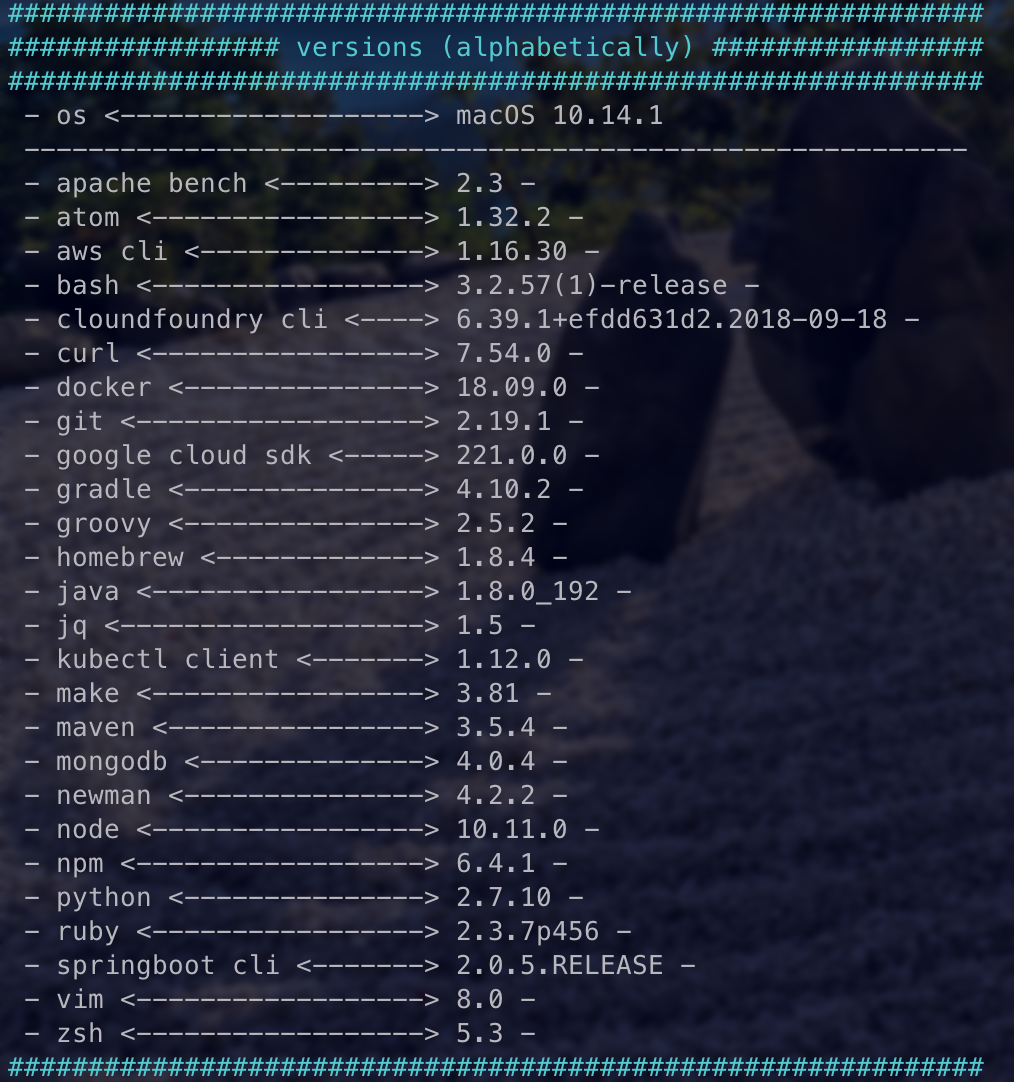
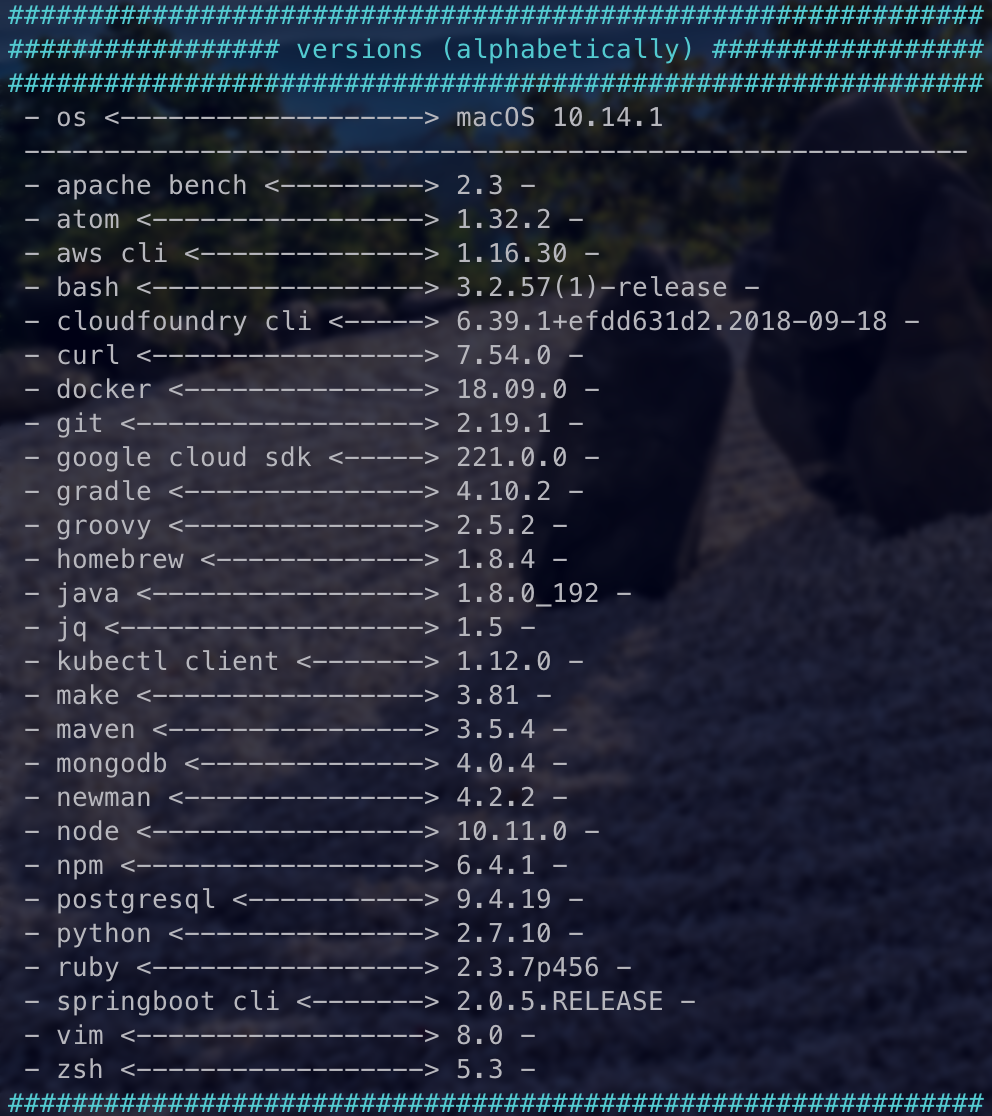
added postgresql

Changed region(s): [[0.0, 0.0, 1.0, 1.0], [0.875, 0.427, 1.0, 0.488], [0.6562, 0.488, 0.6875, 0.549]]

diff --git a/README.md b/README.md
@@ -38,6 +38,7 @@ Actually following tools are listed (alphabetically):<br>
 * Newman
 * Node
 * Npm
+* PostgreSQL
 * Python
 * Ruby
 * SpringBoot CLI
